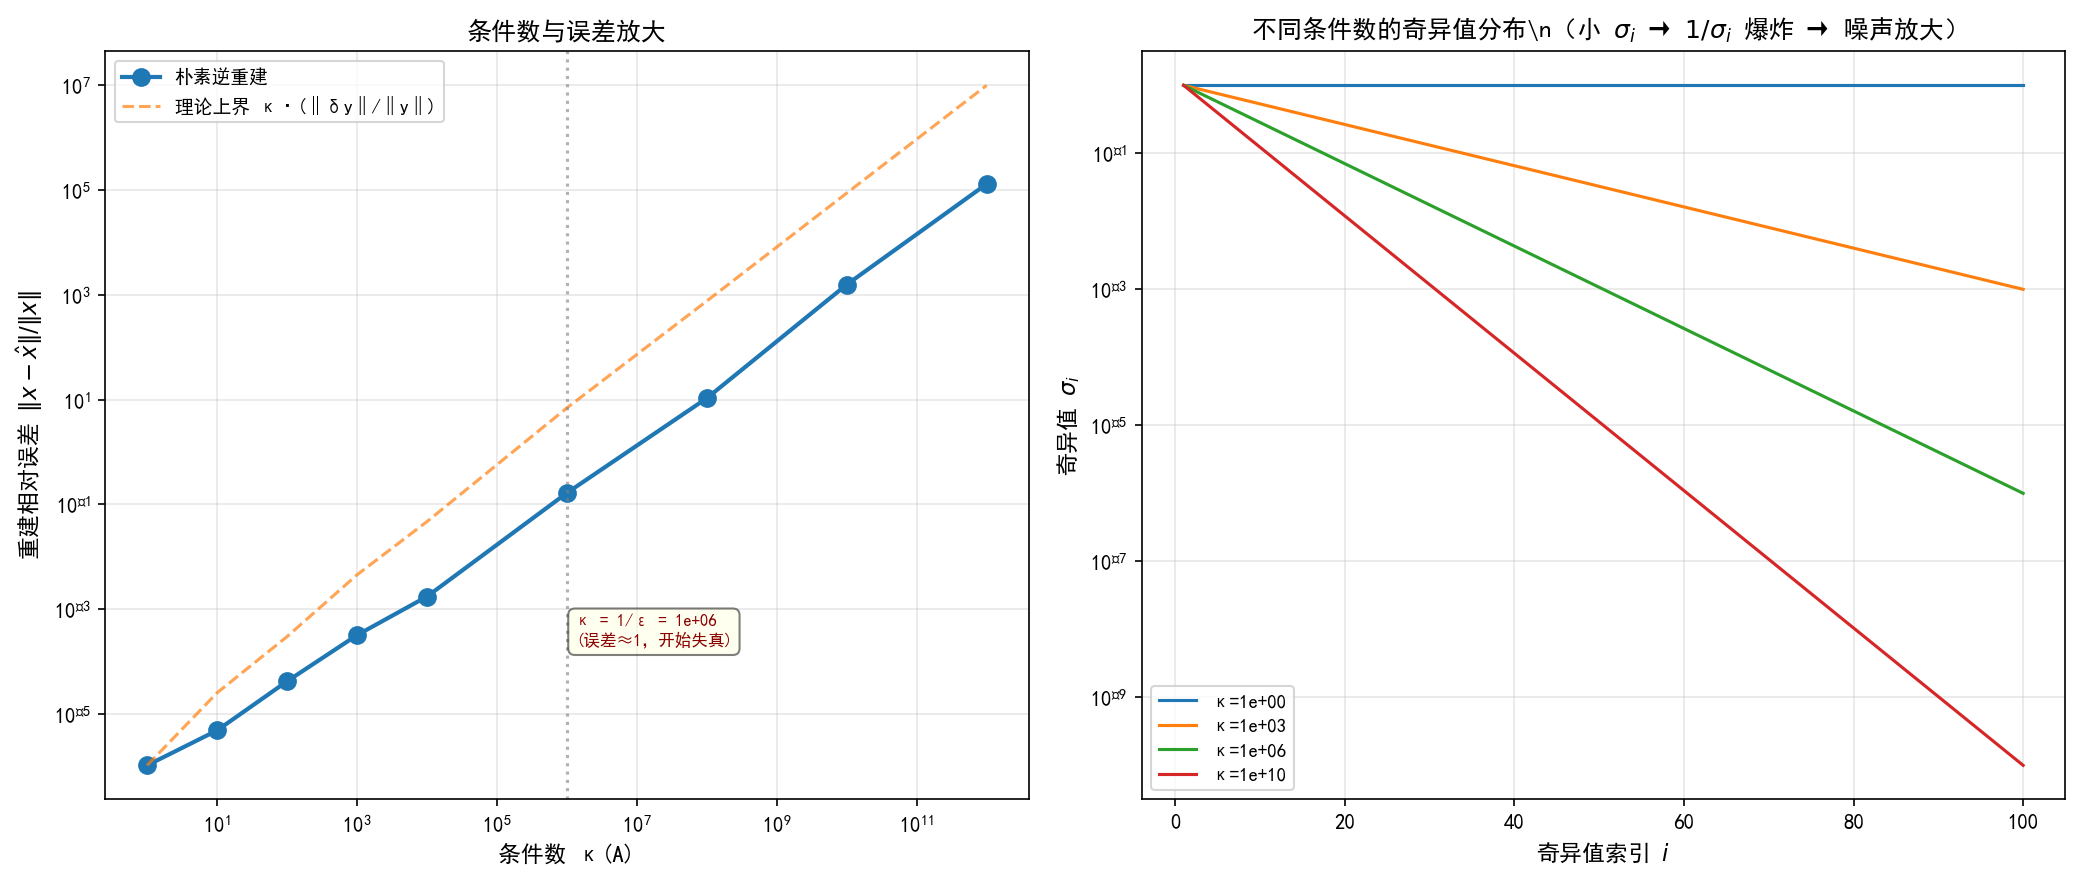
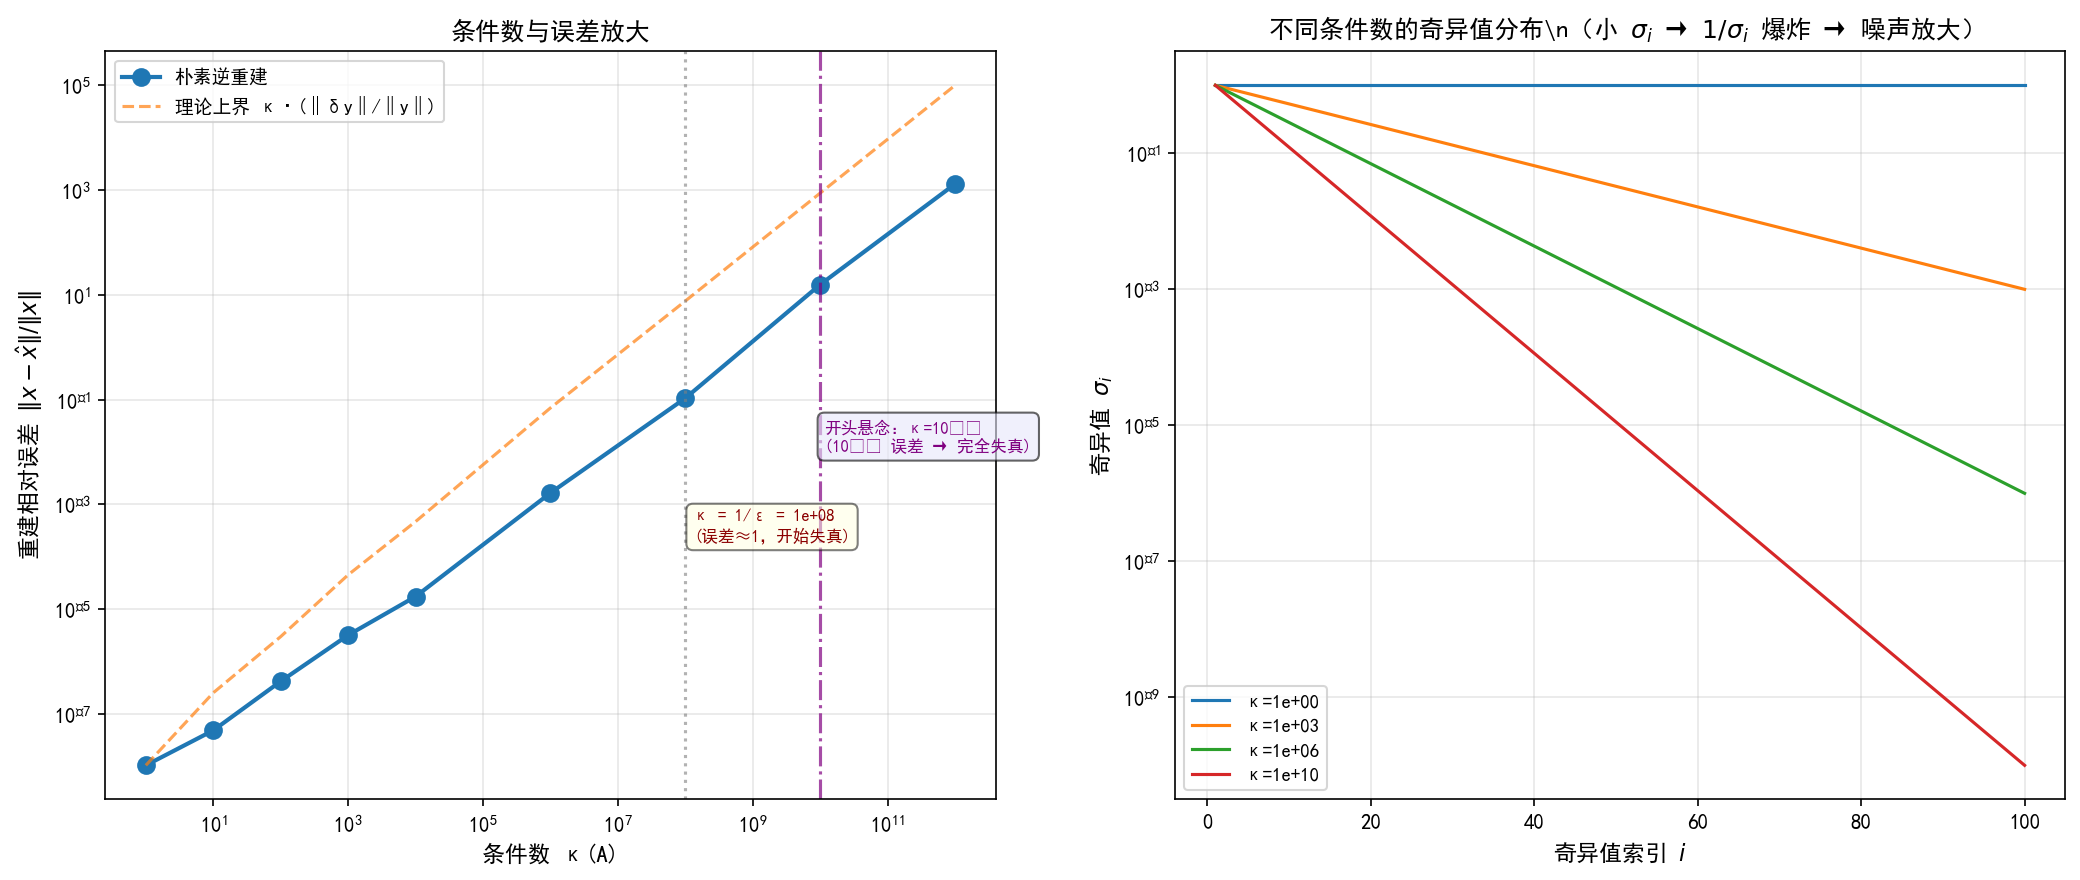
1

diff --git a/第1章 逆问题与贝叶斯推断/第一章 配套实验/实验1.2-2/1.2-2.py b/第1章 逆问题与贝叶斯推断/第一章 配套实验/实验1.2-2/1.2-2.py
@@ -1,4 +1,6 @@
-import numpy as np
+import numpy as np
+import matplotlib
+matplotlib.use('Agg')
 import matplotlib.pyplot as plt
 from skimage.data import shepp_logan_phantom
 from skimage.transform import radon, iradon, resize

diff --git a/第1章 逆问题与贝叶斯推断/第一章 配套实验/实验1.3-3/1.3-3.py b/第1章 逆问题与贝叶斯推断/第一章 配套实验/实验1.3-3/1.3-3.py
@@ -1,4 +1,6 @@
-import numpy as np
+import numpy as np
+import matplotlib
+matplotlib.use('Agg')
 import matplotlib.pyplot as plt
 from skimage.data import shepp_logan_phantom
 from skimage.transform import resize

diff --git a/第1章 逆问题与贝叶斯推断/第一章 配套实验/实验1.5-1/1.5-1.py b/第1章 逆问题与贝叶斯推断/第一章 配套实验/实验1.5-1/1.5-1.py
@@ -1,4 +1,6 @@
-import numpy as np
+import numpy as np
+import matplotlib
+matplotlib.use('Agg')
 import matplotlib.pyplot as plt
 from skimage.data import shepp_logan_phantom
 from skimage.transform import resize

diff --git a/第1章 逆问题与贝叶斯推断/第一章 配套实验/实验1.2-1/1.2-1.py b/第1章 逆问题与贝叶斯推断/第一章 配套实验/实验1.2-1/1.2-1.py
@@ -1,4 +1,6 @@
-import numpy as np
+import numpy as np
+import matplotlib
+matplotlib.use('Agg')
 import matplotlib.pyplot as plt
 from skimage.data import astronaut
 from skimage.color import rgb2gray

diff --git a/第1章 逆问题与贝叶斯推断/第一章 配套实验/实验1.3-4/1.3-4.py b/第1章 逆问题与贝叶斯推断/第一章 配套实验/实验1.3-4/1.3-4.py
@@ -1,4 +1,6 @@
-import numpy as np
+import numpy as np
+import matplotlib
+matplotlib.use('Agg')
 import matplotlib.pyplot as plt
 from skimage.data import astronaut
 from skimage.color import rgb2gray

diff --git a/第1章 逆问题与贝叶斯推断/第一章 配套实验/实验1.3-2/1.3-2.py b/第1章 逆问题与贝叶斯推断/第一章 配套实验/实验1.3-2/1.3-2.py
@@ -1,4 +1,6 @@
 import numpy as np
+import matplotlib
+matplotlib.use('Agg')
 import matplotlib.pyplot as plt
 from skimage.data import shepp_logan_phantom
 from skimage.transform import resize

diff --git a/第1章 逆问题与贝叶斯推断/第一章 配套实验/实验1.4-1/1.4-1.py b/第1章 逆问题与贝叶斯推断/第一章 配套实验/实验1.4-1/1.4-1.py
@@ -1,4 +1,6 @@
 import numpy as np
+import matplotlib
+matplotlib.use('Agg')
 import matplotlib.pyplot as plt
 from skimage.data import shepp_logan_phantom
 from skimage.transform import resize

diff --git a/第1章 逆问题与贝叶斯推断/第一章 配套实验/附录1A/1.a-1.py b/第1章 逆问题与贝叶斯推断/第一章 配套实验/附录1A/1.a-1.py
@@ -1,4 +1,6 @@
 import numpy as np
+import matplotlib
+matplotlib.use('Agg')
 import matplotlib.pyplot as plt
 from skimage.data import astronaut
 from skimage.color import rgb2gray

diff --git a/第1章 逆问题与贝叶斯推断/第一章 配套实验/实验1.4-2/1.4-2.py b/第1章 逆问题与贝叶斯推断/第一章 配套实验/实验1.4-2/1.4-2.py
@@ -1,4 +1,6 @@
 import numpy as np
+import matplotlib
+matplotlib.use('Agg')
 import matplotlib.pyplot as plt
 from PIL import Image
 import os

diff --git a/第1章 逆问题与贝叶斯推断/1.3 不适定性：为什么逆问题难？.md b/第1章 逆问题与贝叶斯推断/1.3 不适定性：为什么逆问题难？.md
@@ -4,10 +4,8 @@
 
 1.2 节我们看清了正向模型 $y = Ax$ 的各种样子。既然正向过程不过是个矩阵乘法，逆过程看起来只要"除以 $A$"——求解 $x = A^{-1}y$——不就完了？
 
-先别急。考虑一个 CT 重建实验：对 12×12 像素的幻影图像，从 11 个角度采投影（共 231 个测量值），构建 231×144 的 Radon 矩阵 $A$。如果我们用**完全同一个** $A$ 造数据、再直接求 $x = A \backslash y$，重建几乎完美。可一旦数据里掺进一丁点噪声或建模误差，重建图像就可能变得面目全非——这就是\*\*不适定性（ill-posedness）\*\*的典型表现。
+先别急。考虑一个 CT 重建实验：对 12×12 像素的幻影图像，从 11 个角度采投影（共 231 个测量值），构建 231×144 的 Radon 矩阵 $A$。如果我们用**完全同一个** $A$ 造数据、再直接求 $x = A \backslash y$，重建几乎完美。可一旦数据里掺进一丁点噪声或建模误差，重建图像就可能变得面目全非——这就是**不适定性（ill-posedness）** 的典型表现。
 
-> **方法论警示：Inverse Crime**
-> 上面"完美重建"还有个更隐蔽的坑：若用**完全相同的离散化网格与正向矩阵 $A$** 既造数据又做反演，问题会被人为"变良好"——因为 $A$ 与 $A^\top$（或 $A^{-1}$）完美匹配，离散化和建模误差被完全掩盖。这种"用同一模型造数据又反演"的做法称为**逆问题犯罪（inverse crime）**。严格验证必须满足：用**不同的网格$/$不同的前向实现**造测试数据，再交给反演算法——这样离散化与模型不一致才会暴露，解的稳定性才真正受检验。这也正是 Hadamard 第三条（稳定性）在离散世界的实际含义：即使无噪声，离散化/模型不一致本身就会破坏稳定性。第16章 CT 实验应刻意避免用同一 Radon 矩阵既造数据又反演。
 
 本节要回答一个核心问题：**即使没有噪声，为什么直接求逆 $x = A^{-1}y$ 也常常不可靠？**
 
@@ -45,7 +43,7 @@
 
 ### 条件数：误差放大的标尺
 
-**为什么需要"条件数"这个概念？** 因为我们需要知道：数据里那一点点误差，最多会被放大成多大的灾难。对可逆方阵 $A$，条件数量化这种放大：
+**为什么需要"条件数"这个概念？** 因为我们需要知道：数据里那一点点误差，最多会被放大成多大的灾难。对可逆方阵 $A$，使用条件数来量化这种放大效应：
 
 $$\kappa(A) = |A| \cdot |A^{-1}|$$
 
@@ -59,7 +57,7 @@ $$\frac{|x - x^\delta|}{|x|} \leq \kappa(A) \frac{|y - y^\delta|}{|y|}$$
 - $\kappa(A) = 10^3$：轻度病态，约丢 3 位有效数字
 - $\kappa(A) = 10^{10}$：严重病态，几乎无法恢复有意义的解
 
-> **先猜一个数（aha 预告）**：假设数据 $y$ 里只有亿分之一（$10^{-8}$）的相对误差，而条件数 $\kappa = 10^{10}$。那重建的相对误差最坏能到多大？先别算——记住这个数字，章末的可运行代码会让你亲眼看到小噪声被放大成一团乱麻。
+> 假设数据 $y$ 里只有亿分之一（$10^{-8}$）的相对误差，而条件数 $\kappa = 10^{10}$。那重建的相对误差最坏能到多大？先别算——记住这个数字，本节的实验 1.3-1 会把它取 $\varepsilon = 10^{-8}$ 真跑一遍，让你亲眼看到小噪声被放大成一团乱麻。
 
 ### 一个经典例子：求导的不适定性
 
@@ -89,7 +87,7 @@ $$|g - g\_\delta|_\infty = \frac{1}{\sqrt{n}} \to 0, \quad |f - f_\delta|\_\inft
 
 ### 实验场景
 
-用一维向量 $x \in \mathbb{R}^{100}$ 作待重建信号，构造对角矩阵 $D = \text{diag}(\sigma\_1, \ldots, \sigma\_n)$ 作正向算子，奇异值按对数间隔衰减以模拟真实不适定问题。改变最小奇异值控制系统条件数 $\kappa(D) = \sigma\_{\max}/\sigma\_{\min}$，范围从 $1$ 到 $10^{12}$。观测加固定噪声（$\varepsilon = 10^{-6}$），用朴素逆重建 $x\_{\text{recon}} = D^{-1} y\_{\text{noisy}}$，观察不同条件数下重建误差。
+用一维向量 $x \in \mathbb{R}^{100}$ 作待重建信号，构造对角矩阵 $D = \text{diag}(\sigma\_1, \ldots, \sigma\_n)$ 作正向算子，奇异值按对数间隔衰减以模拟真实不适定问题。改变最小奇异值控制系统条件数 $\kappa(D) = \sigma\_{\max}/\sigma\_{\min}$，范围从 $1$ 到 $10^{12}$。观测加固定噪声（$\varepsilon = 10^{-8}$，对应 1.3 节开头悬念的"亿分之一相对误差"），用朴素逆重建 $x\_{\text{recon}} = D^{-1} y\_{\text{noisy}}$，观察不同条件数下重建误差；并用专门一张附图，把 $\kappa=10^6$（蓝，发钝）与 $\kappa=10^{10}$（红，炸成乱麻）的重建叠在同一坐标系里对比，把"小噪声被放大成一团乱麻"直接画出来。
 
 ### 实验目的
 
@@ -97,47 +95,60 @@ $$|g - g\_\delta|_\infty = \frac{1}{\sqrt{n}} \to 0, \quad |f - f_\delta|\_\inft
 2. **理解病态性的数量级**：建立条件数与有效数字丢失的对应（$\kappa=10^3$ 丢约3位，$\kappa=10^6$ 丢约6位）
 3. **识别临界点**：找到误差开始超过信号的临界条件数 $\kappa\_{\text{critical}} = 1/\varepsilon$
 4. **建立物理直觉**：通过奇异值衰减理解"小奇异值 → 大放大因子 → 噪声爆炸"
+5. **眼见为实**：用 $\kappa=10^{10}$（以及对照的 $\kappa=10^6$）把开头悬念（数据仅 $10^{-8}$ 误差）实例化为一张叠图——干净信号与不同条件数下的朴素逆重建叠在同一坐标系、用不同颜色，一眼看出"有的发钝、有的炸成乱麻"
 
 ### 实验输入
 
 | 参数    | 数值                                                                        |
 | ----- | ------------------------------------------------------------------------- |
 | 信号维度  | $n = 100$，随机标准正态向量                                                        |
-| 噪声水平  | $\varepsilon = 10^{-6}$，加性高斯白噪声                                           |
+| 噪声水平  | $\varepsilon = 10^{-8}$，加性高斯白噪声（对应 1.3 节开头悬念：数据仅亿分之一相对误差） |
 | 条件数范围 | $\kappa \in {10^0, 10^1, 10^2, 10^3, 10^4, 10^6, 10^8, 10^{10}, 10^{12}}$ |
 | 奇异值分布 | 对数间隔：$\sigma\_i = \text{logspace}(0, -\log\_{10}\kappa, n)$               |
 | 重建方法  | 朴素逆重建：$x\_{\text{recon}} = D^{-1} y\_{\text{noisy}}$                      |
-| 基线精度  | $-\log\_{10}\varepsilon = 6$ 位                                            |
+| 基线精度  | $-\log\_{10}\varepsilon = 8$ 位                                            |
 
 ### 预期结果
 
 实验生成 $1 \times 2$ 子图布局加数值表：
 
-**左图（误差 vs 条件数）**：蓝色实线为朴素逆重建相对误差，随条件数急剧上升；灰色虚线标注临界点 $\kappa = 1/\varepsilon = 10^6$；黑色虚线为理论上界。
+**左图（误差 vs 条件数）**：蓝色实线为朴素逆重建相对误差，随条件数急剧上升；灰色虚线标注临界点 $\kappa = 1/\varepsilon = 10^8$；紫色点划线高亮开头悬念那一行 $\kappa = 10^{10}$（数据仅 $10^{-8}$ 误差，重建完全失真）；黑色虚线为理论上界。
 
 **右图（奇异值分布）**：四曲线分别展示 $\kappa = 1, 10^3, 10^6, 10^{10}$ 时的奇异值衰减。
+
+**附图（同一信号、不同条件数下的重建对比·叠图）**：用开头那组数字（$\varepsilon=10^{-8}$）跑一个实例，把不同条件数的重建**叠在同一张图、用不同颜色**——这才是"小噪声被放大成一团乱麻"最直观的呈现。所有曲线共用同一条清晰平滑的干净信号 $x$ 和同一份观测噪声，唯一变量是条件数：
+
+- **黑色粗线（干净信号 $x$）**：基准；
+- **$\kappa=10^6$（蓝）**：误差约 $2.4\times10^{-3}$，主图里看着还"贴着"黑线，但已偏离真相（高频细节被噪声抹掉、整体变钝）；
+- **$\kappa=10^{10}$（红）**：小奇异值方向的噪声被 $1/\sigma\_i$ 放大约 $10^{10}$ 倍，红线剧烈振荡、直接"撞"到图的上下边界，成一团乱麻（误差约 $1.7\times10^{1}$，约 $10^2$ 量级，彻底失真）。
+
+![实验1.3-1 附：不同条件数下朴素逆重建对比（叠图）](<./第一章 配套实验/实验1.3-1/实验1_3_1_信号重建乱麻.png>)
+
+一眼看过去：蓝线发钝、红线彻底炸开——条件数越大，重建离"真相"越远。这正是 1.3 节开头那句话的字面含义：数据里只有亿分之一的误差，但在高条件数下重建出来却面目全非。
 
 **数值结果表**：
 
 | κ(A)  | 朴素误差       | 理论丢失  | 实际丢失      |
 | ----- | ---------- | ----- | --------- |
-| 1e+00 | 1.0435e-06 | \~0位  | \~0位      |
-| 1e+01 | 4.8464e-06 | \~1位  | \~1位      |
-| 1e+02 | 4.1893e-05 | \~2位  | \~2位      |
-| 1e+03 | 3.1871e-04 | \~3位  | \~3位      |
-| 1e+04 | 1.7381e-03 | \~4位  | \~3位      |
-| 1e+06 | 1.6480e-01 | \~6位  | \~5位      |
-| 1e+08 | 1.0604e+01 | \~8位  | >6位（完全失真） |
-| 1e+10 | 1.5610e+03 | \~10位 | >6位（完全失真） |
-| 1e+12 | 1.2979e+05 | \~12位 | >6位（完全失真） |
+| 1e+00 | 1.0435e-08 | \~0位  | \~0位      |
+| 1e+01 | 4.8464e-08 | \~1位  | \~1位      |
+| 1e+02 | 4.1893e-07 | \~2位  | \~2位      |
+| 1e+03 | 3.1871e-06 | \~3位  | \~3位      |
+| 1e+04 | 1.7381e-05 | \~4位  | \~3位      |
+| 1e+06 | 1.6480e-03 | \~6位  | \~5位      |
+| 1e+08 | 1.0604e-01 | \~8位  | \~7位（临界） |
+| 1e+10 | 1.5610e+01 | \~10位 | >8位（完全失真） |
+| 1e+12 | 1.2979e+03 | \~12位 | >8位（完全失真） |
 
 **关键观察**：
 
 - **良态区域**（$\kappa \leq 10^3$）：理论与实际吻合，误差放大可预测
 - **中度病态**（$\kappa = 10^6$）：实际丢5位，仍在可控范围
-- **严重病态**（$\kappa > 10^6$）：误差超过1，信号被噪声淹没，重建失去意义
+- **严重病态**（$\kappa > 10^8$）：误差超过1，信号被噪声淹没，重建失去意义
 
-临界点 $\kappa\_{\text{critical}} = 1/\varepsilon = 10^6$ 的含义：当 $\kappa < 10^6$ 误差 $<1$，仍含有用信息；$\kappa > 10^6$ 误差 $>1$，比噪声还差。这解释了为何条件数超过 $10^6$ 必须引入正则化。
+> **回到开头那个悬念**：数据只有 $10^{-8}$ 相对误差、条件数 $\kappa = 10^{10}$——表里 $\kappa=10^{10}$ 那行的"朴素误差 $1.56\times10^{1}$"就是答案：最坏相对误差被放大到约 $10^{2}$ 量级、重建完全失真。小噪声被放大成一团乱麻，眼见为实。这正是 1.3 节开头留下的钩子。
+
+临界点 $\kappa\_{\text{critical}} = 1/\varepsilon = 10^8$ 的含义：当 $\kappa < 10^8$ 误差 $<1$，仍含有用信息；$\kappa > 10^8$ 误差 $>1$，比噪声还差。这解释了为何条件数超过 $10^8$ 必须引入正则化。
 
 右图的"高通滤波器"直觉：正向算子 $D$ 像低通（压制小奇异值方向），逆向 $D^{-1}$ 像高通（放大小奇异值方向噪声）。小奇异值 = 高频方向，$1/\sigma\_i$ 巨大导致噪声爆炸。
 
@@ -324,6 +335,8 @@ Inverse Crime 用相同模型造数据又重建，**人为消除了建模误差*
 
 > **经验法则**：评估任何逆问题算法时，先检查是否避免了 Inverse Crime。若重建"好得难以置信"，很可能就是 Inverse Crime 作祟。
 
+注意，Inverse Crime 正是 **Hadamard 第三条（稳定性）在离散世界的反面教材**：它用"同一模型造数据又反演"人为抹掉了建模误差，让稳定性看似成立、实则从未被检验。第16章 CT 实验会刻意用不同于重建矩阵的 Radon 实现（或旋转非整数倍角度）来造数据，正是这条原则的实践。
+
 ## 实验 1.3-4：Inverse Crime 警示——建模误差对重建的影响
 
 实验`1.3-4.py`通过对比同模型和异模型条件下的重建质量，定量展示 Inverse Crime 如何导致虚假良好性能。
@@ -388,6 +401,8 @@ IC 条件（$\Delta\sigma=0$）并非 PSNR 最高——轻微负偏差（$\Delta
 
 1. **Hadamard 三条件**给出逆问题"合理"标准——存在性、唯一性、稳定性。多数图像逆问题至少违反其一，而**稳定性违反是最大威胁**。
 2. **病态性**用条件数量化误差放大：$\kappa(A) = |A||A^{-1}|$。条件数越大，微小噪声被放大越严重。
+
+> **兑现开头的悬念**：1.3 节开头问过——数据 $y$ 只有亿分之一（$10^{-8}$）相对误差、条件数 $\kappa=10^{10}$ 时，最坏相对误差能到多大？实验 1.3-1 用 $\varepsilon=10^{-8}$ 真跑了一遍：在 $\kappa=10^{10}$ 那一行，朴素逆重建的相对误差高达约 $1.56\times10^{1}$（即被放大到约 $10^{2}$ 量级、彻底失真）。这与理论最坏上界 $\kappa\cdot\varepsilon = 10^{10}\times10^{-8} = 10^{2}$ 完全吻合——"小噪声被放大成一团乱麻"不是比喻，而是你刚亲眼看到的数值。
 
 > **离散不适定性 vs 连续不适定性。** 区分两种：
 >
